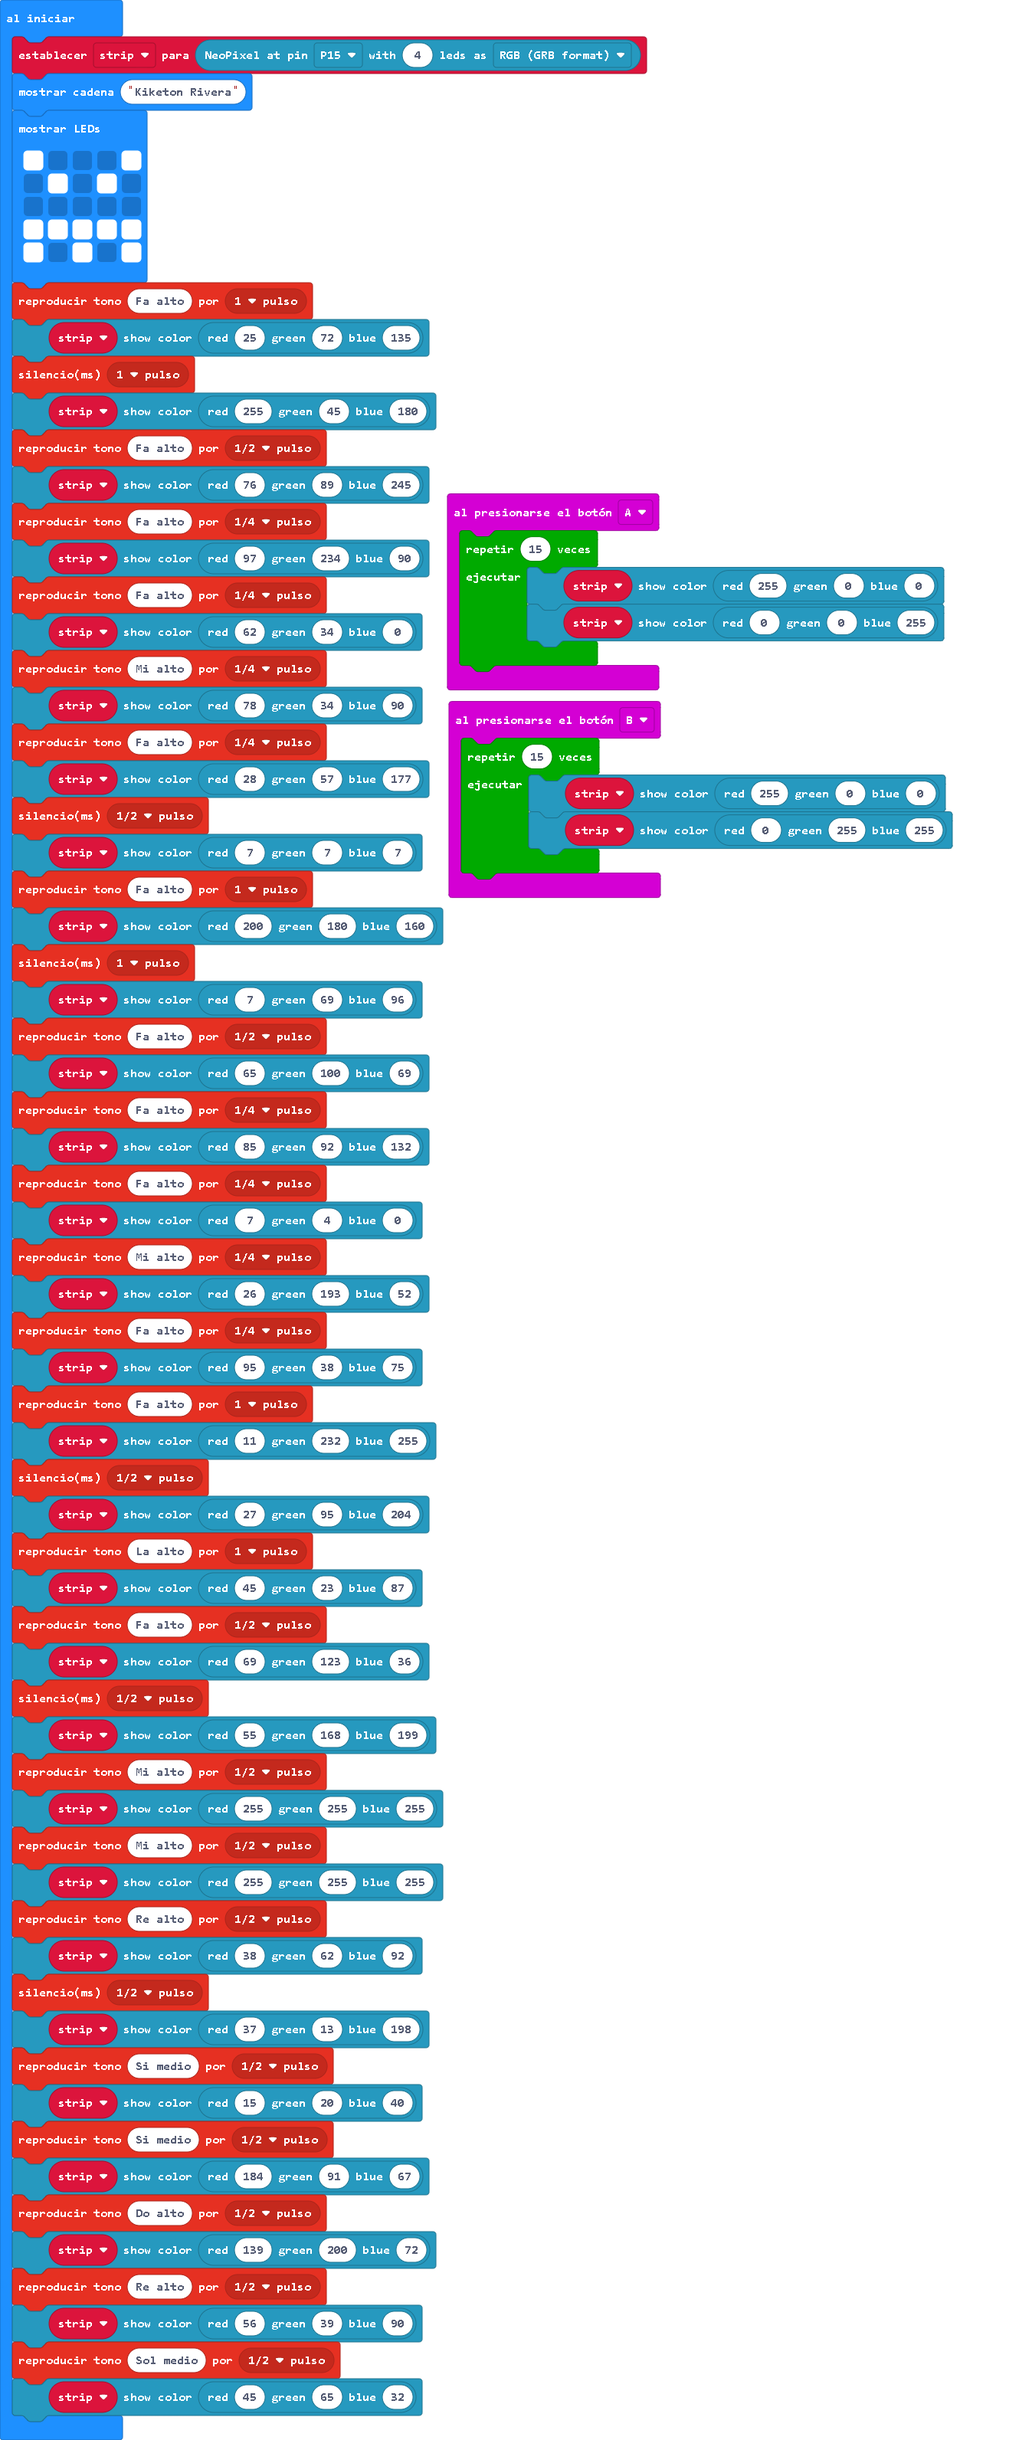
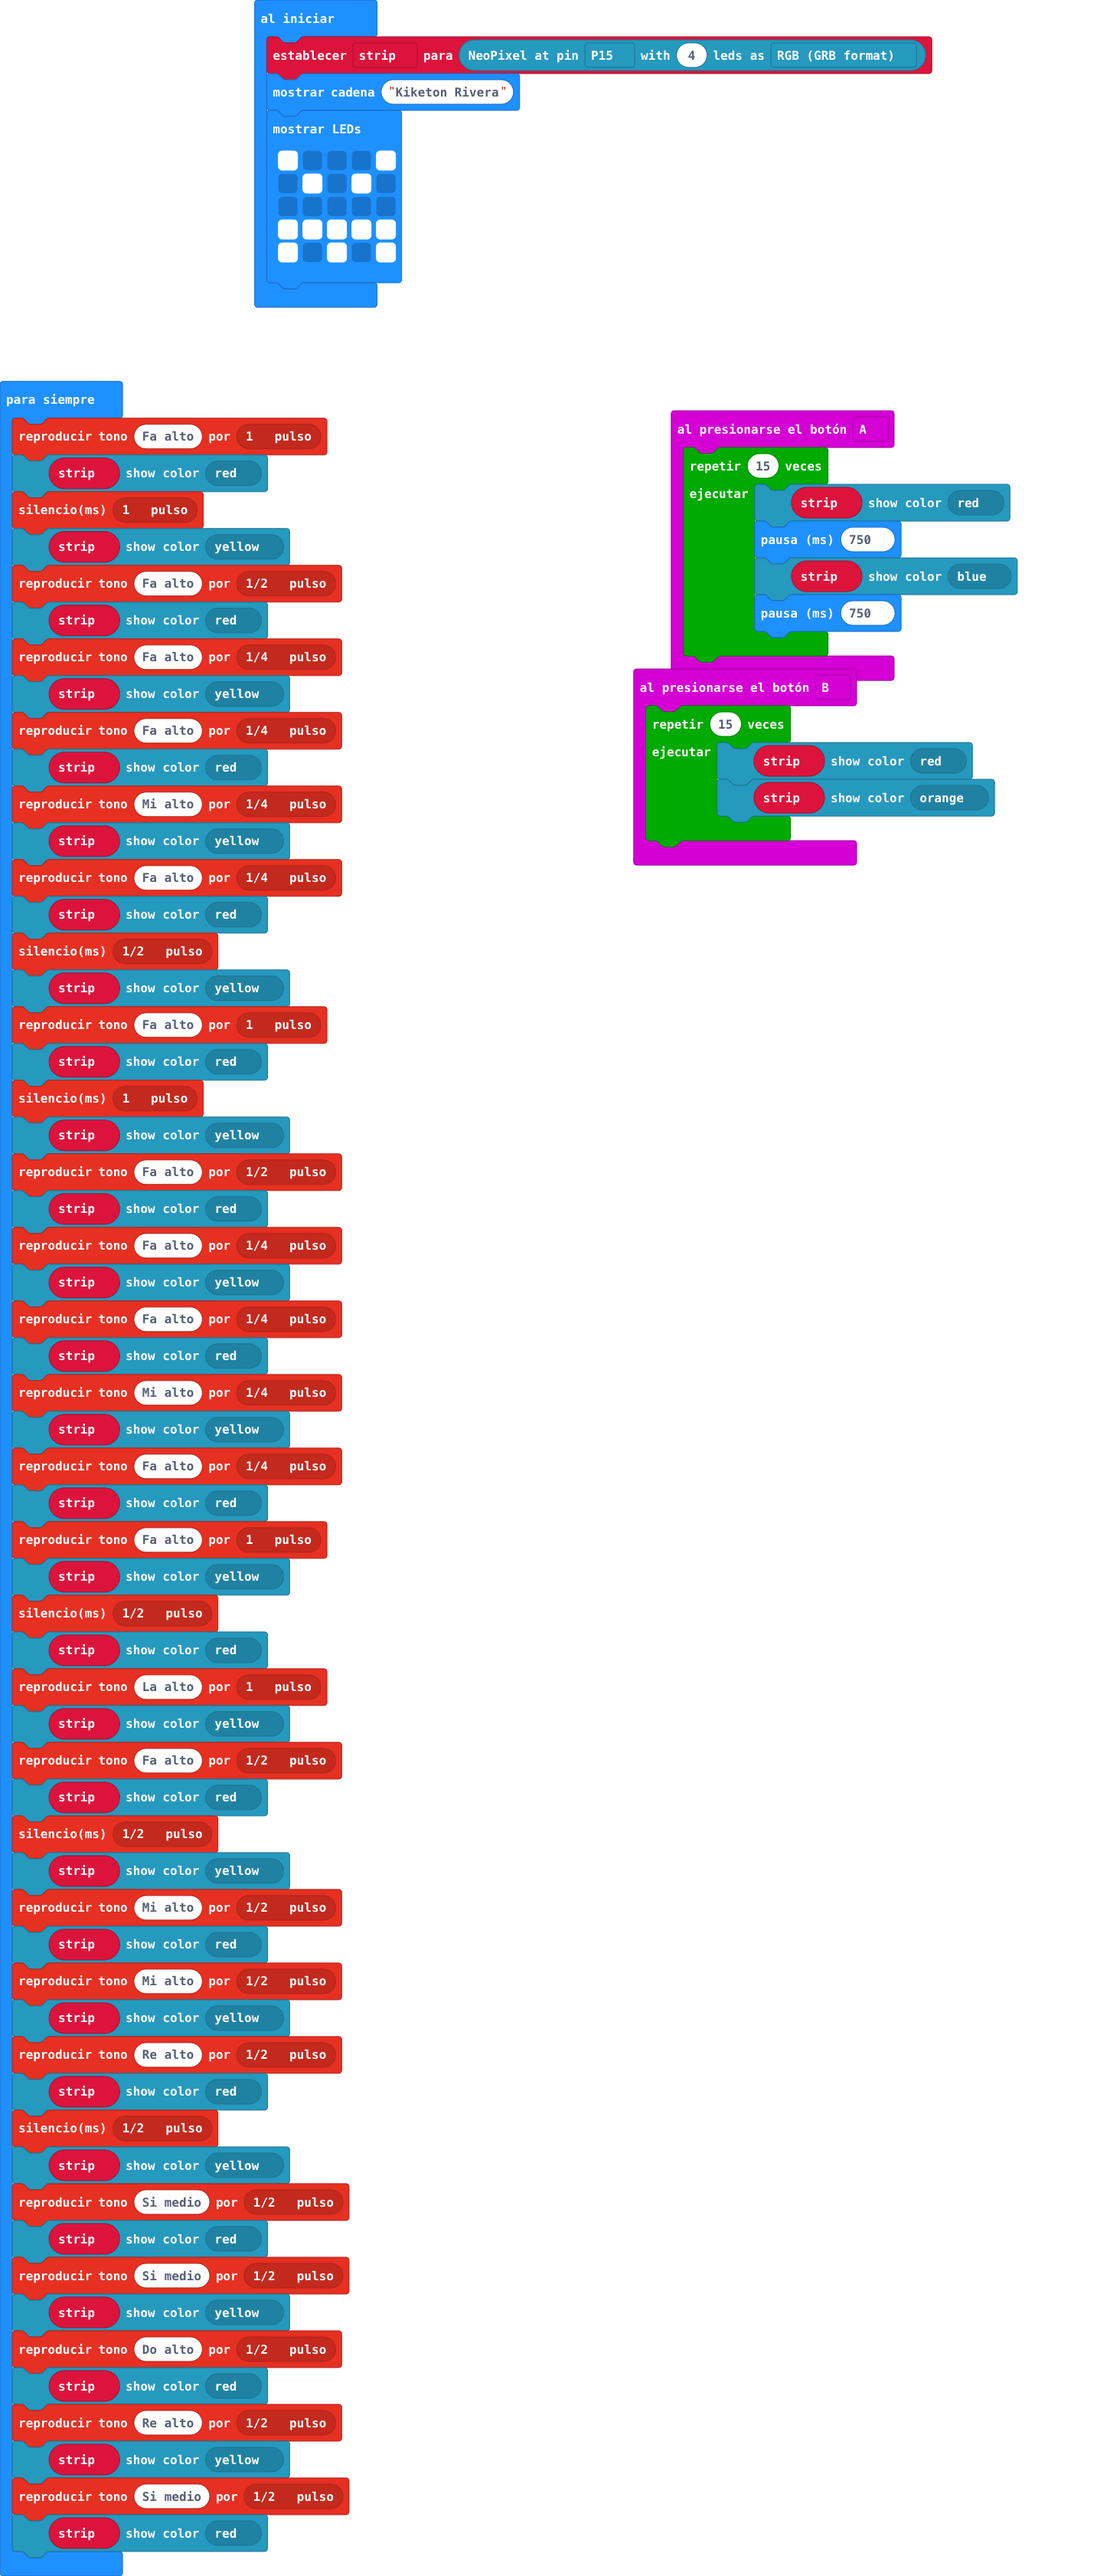
Actualizar main.blocks, main.ts

diff --git a/main.ts b/main.ts
@@ -1,13 +1,15 @@
 input.onButtonPressed(Button.A, function () {
     for (let index = 0; index < 15; index++) {
-        strip.showColor(neopixel.rgb(255, 0, 0))
-        strip.showColor(neopixel.rgb(0, 0, 255))
+        strip.showColor(neopixel.colors(NeoPixelColors.Red))
+        basic.pause(750)
+        strip.showColor(neopixel.colors(NeoPixelColors.Blue))
+        basic.pause(750)
     }
 })
 input.onButtonPressed(Button.B, function () {
     for (let index = 0; index < 15; index++) {
-        strip.showColor(neopixel.rgb(255, 0, 0))
-        strip.showColor(neopixel.rgb(0, 255, 255))
+        strip.showColor(neopixel.colors(NeoPixelColors.Red))
+        strip.showColor(neopixel.colors(NeoPixelColors.Orange))
     }
 })
 let strip: neopixel.Strip = null
@@ -20,61 +22,63 @@ basic.showLeds(`
     # # # # #
     # . # . #
     `)
-music.playTone(698, music.beat(BeatFraction.Whole))
-strip.showColor(neopixel.rgb(25, 72, 135))
-music.rest(music.beat(BeatFraction.Whole))
-strip.showColor(neopixel.rgb(255, 45, 180))
-music.playTone(698, music.beat(BeatFraction.Half))
-strip.showColor(neopixel.rgb(76, 89, 245))
-music.playTone(698, music.beat(BeatFraction.Quarter))
-strip.showColor(neopixel.rgb(97, 234, 90))
-music.playTone(698, music.beat(BeatFraction.Quarter))
-strip.showColor(neopixel.rgb(62, 34, 0))
-music.playTone(659, music.beat(BeatFraction.Quarter))
-strip.showColor(neopixel.rgb(78, 34, 90))
-music.playTone(698, music.beat(BeatFraction.Quarter))
-strip.showColor(neopixel.rgb(28, 57, 177))
-music.rest(music.beat(BeatFraction.Half))
-strip.showColor(neopixel.rgb(7, 7, 7))
-music.playTone(698, music.beat(BeatFraction.Whole))
-strip.showColor(neopixel.rgb(200, 180, 160))
-music.rest(music.beat(BeatFraction.Whole))
-strip.showColor(neopixel.rgb(7, 69, 96))
-music.playTone(698, music.beat(BeatFraction.Half))
-strip.showColor(neopixel.rgb(65, 100, 69))
-music.playTone(698, music.beat(BeatFraction.Quarter))
-strip.showColor(neopixel.rgb(85, 92, 132))
-music.playTone(698, music.beat(BeatFraction.Quarter))
-strip.showColor(neopixel.rgb(7, 4, 0))
-music.playTone(659, music.beat(BeatFraction.Quarter))
-strip.showColor(neopixel.rgb(26, 193, 52))
-music.playTone(698, music.beat(BeatFraction.Quarter))
-strip.showColor(neopixel.rgb(95, 38, 75))
-music.playTone(698, music.beat(BeatFraction.Whole))
-strip.showColor(neopixel.rgb(11, 232, 255))
-music.rest(music.beat(BeatFraction.Half))
-strip.showColor(neopixel.rgb(27, 95, 204))
-music.playTone(880, music.beat(BeatFraction.Whole))
-strip.showColor(neopixel.rgb(45, 23, 87))
-music.playTone(698, music.beat(BeatFraction.Half))
-strip.showColor(neopixel.rgb(69, 123, 36))
-music.rest(music.beat(BeatFraction.Half))
-strip.showColor(neopixel.rgb(55, 168, 199))
-music.playTone(659, music.beat(BeatFraction.Half))
-strip.showColor(neopixel.rgb(255, 255, 255))
-music.playTone(659, music.beat(BeatFraction.Half))
-strip.showColor(neopixel.rgb(255, 255, 255))
-music.playTone(587, music.beat(BeatFraction.Half))
-strip.showColor(neopixel.rgb(38, 62, 92))
-music.rest(music.beat(BeatFraction.Half))
-strip.showColor(neopixel.rgb(37, 13, 198))
-music.playTone(494, music.beat(BeatFraction.Half))
-strip.showColor(neopixel.rgb(15, 20, 40))
-music.playTone(494, music.beat(BeatFraction.Half))
-strip.showColor(neopixel.rgb(184, 91, 67))
-music.playTone(523, music.beat(BeatFraction.Half))
-strip.showColor(neopixel.rgb(139, 200, 72))
-music.playTone(587, music.beat(BeatFraction.Half))
-strip.showColor(neopixel.rgb(56, 39, 90))
-music.playTone(392, music.beat(BeatFraction.Half))
-strip.showColor(neopixel.rgb(45, 65, 32))
+basic.forever(function () {
+    music.playTone(698, music.beat(BeatFraction.Whole))
+    strip.showColor(neopixel.colors(NeoPixelColors.Red))
+    music.rest(music.beat(BeatFraction.Whole))
+    strip.showColor(neopixel.colors(NeoPixelColors.Yellow))
+    music.playTone(698, music.beat(BeatFraction.Half))
+    strip.showColor(neopixel.colors(NeoPixelColors.Red))
+    music.playTone(698, music.beat(BeatFraction.Quarter))
+    strip.showColor(neopixel.colors(NeoPixelColors.Yellow))
+    music.playTone(698, music.beat(BeatFraction.Quarter))
+    strip.showColor(neopixel.colors(NeoPixelColors.Red))
+    music.playTone(659, music.beat(BeatFraction.Quarter))
+    strip.showColor(neopixel.colors(NeoPixelColors.Yellow))
+    music.playTone(698, music.beat(BeatFraction.Quarter))
+    strip.showColor(neopixel.colors(NeoPixelColors.Red))
+    music.rest(music.beat(BeatFraction.Half))
+    strip.showColor(neopixel.colors(NeoPixelColors.Yellow))
+    music.playTone(698, music.beat(BeatFraction.Whole))
+    strip.showColor(neopixel.colors(NeoPixelColors.Red))
+    music.rest(music.beat(BeatFraction.Whole))
+    strip.showColor(neopixel.colors(NeoPixelColors.Yellow))
+    music.playTone(698, music.beat(BeatFraction.Half))
+    strip.showColor(neopixel.colors(NeoPixelColors.Red))
+    music.playTone(698, music.beat(BeatFraction.Quarter))
+    strip.showColor(neopixel.colors(NeoPixelColors.Yellow))
+    music.playTone(698, music.beat(BeatFraction.Quarter))
+    strip.showColor(neopixel.colors(NeoPixelColors.Red))
+    music.playTone(659, music.beat(BeatFraction.Quarter))
+    strip.showColor(neopixel.colors(NeoPixelColors.Yellow))
+    music.playTone(698, music.beat(BeatFraction.Quarter))
+    strip.showColor(neopixel.colors(NeoPixelColors.Red))
+    music.playTone(698, music.beat(BeatFraction.Whole))
+    strip.showColor(neopixel.colors(NeoPixelColors.Yellow))
+    music.rest(music.beat(BeatFraction.Half))
+    strip.showColor(neopixel.colors(NeoPixelColors.Red))
+    music.playTone(880, music.beat(BeatFraction.Whole))
+    strip.showColor(neopixel.colors(NeoPixelColors.Yellow))
+    music.playTone(698, music.beat(BeatFraction.Half))
+    strip.showColor(neopixel.colors(NeoPixelColors.Red))
+    music.rest(music.beat(BeatFraction.Half))
+    strip.showColor(neopixel.colors(NeoPixelColors.Yellow))
+    music.playTone(659, music.beat(BeatFraction.Half))
+    strip.showColor(neopixel.colors(NeoPixelColors.Red))
+    music.playTone(659, music.beat(BeatFraction.Half))
+    strip.showColor(neopixel.colors(NeoPixelColors.Yellow))
+    music.playTone(587, music.beat(BeatFraction.Half))
+    strip.showColor(neopixel.colors(NeoPixelColors.Red))
+    music.rest(music.beat(BeatFraction.Half))
+    strip.showColor(neopixel.colors(NeoPixelColors.Yellow))
+    music.playTone(494, music.beat(BeatFraction.Half))
+    strip.showColor(neopixel.colors(NeoPixelColors.Red))
+    music.playTone(494, music.beat(BeatFraction.Half))
+    strip.showColor(neopixel.colors(NeoPixelColors.Yellow))
+    music.playTone(523, music.beat(BeatFraction.Half))
+    strip.showColor(neopixel.colors(NeoPixelColors.Red))
+    music.playTone(587, music.beat(BeatFraction.Half))
+    strip.showColor(neopixel.colors(NeoPixelColors.Yellow))
+    music.playTone(494, music.beat(BeatFraction.Half))
+    strip.showColor(neopixel.colors(NeoPixelColors.Red))
+})
